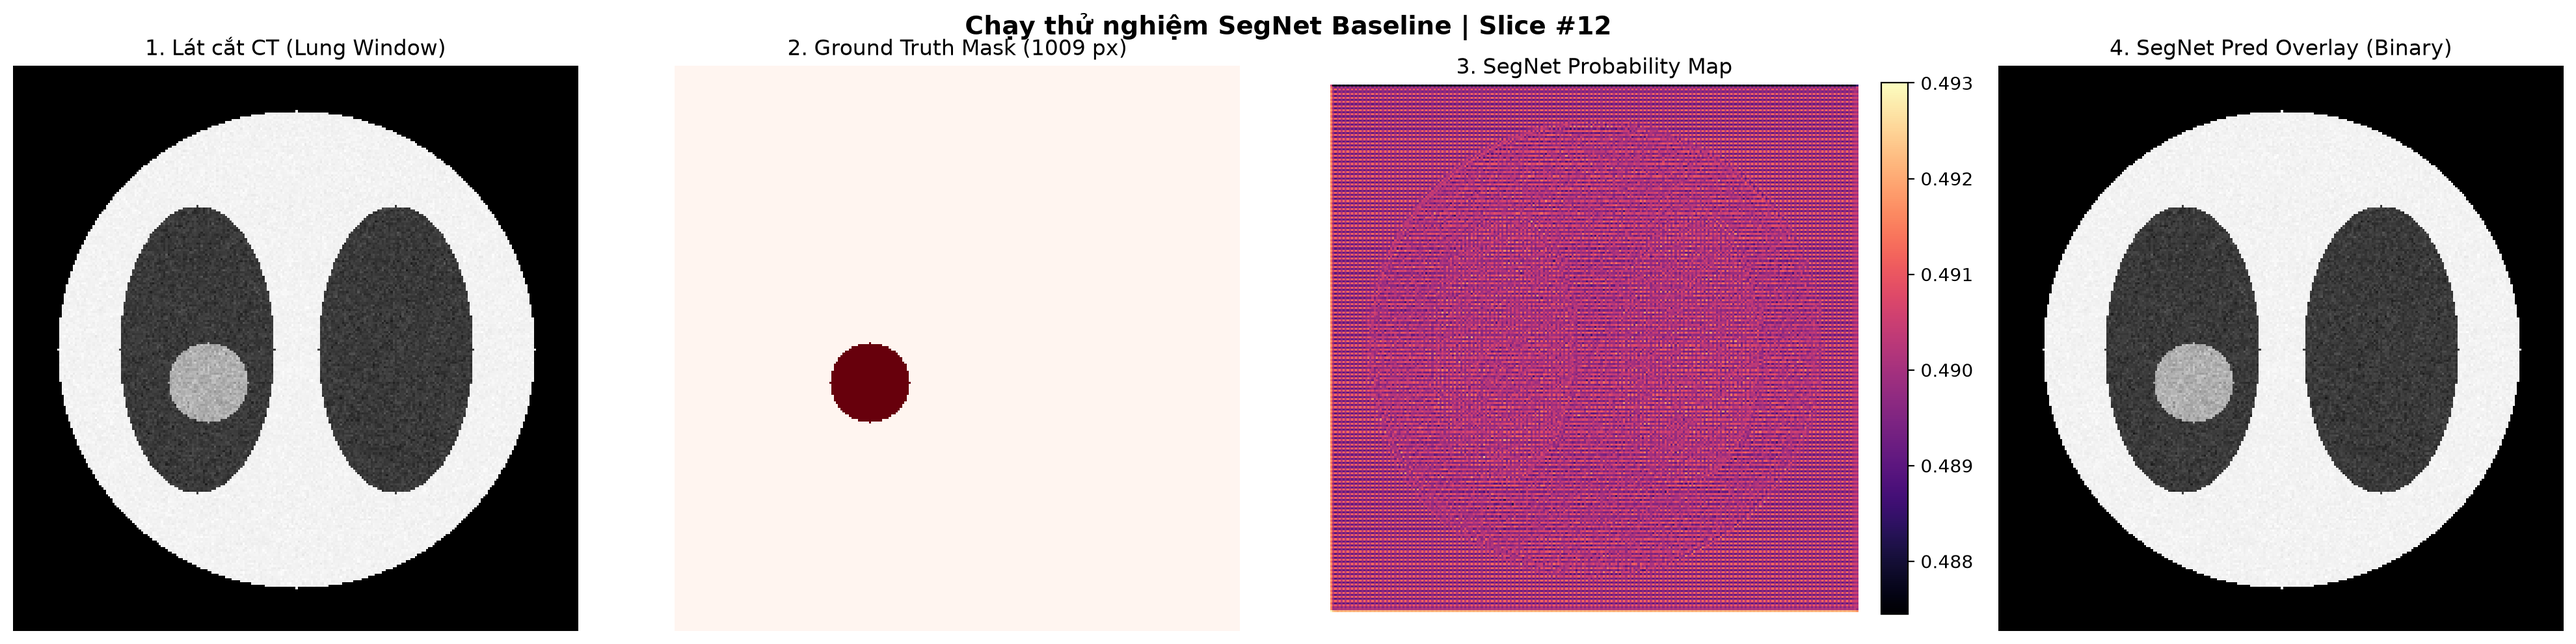
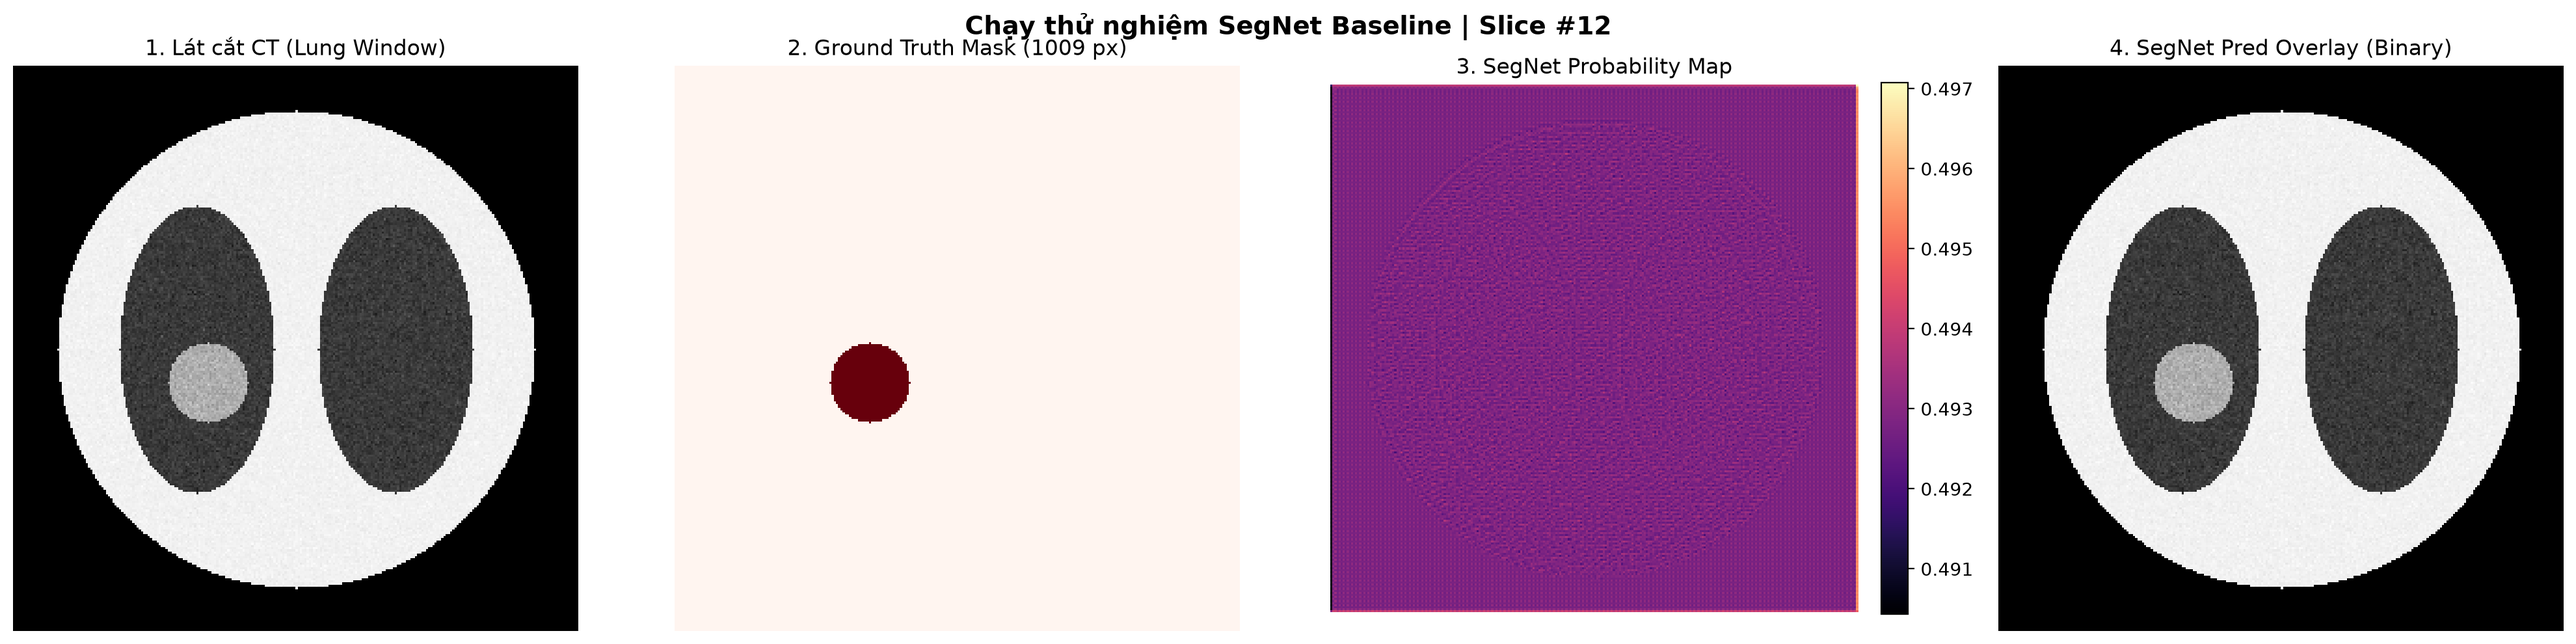
save: dev updates before pulling

Changed region(s): [[0.497, 0.1212, 0.7765, 0.9697], [0.8386, 0.5455, 0.8697, 0.6364], [0.0621, 0.5455, 0.0932, 0.6364]]

diff --git a/README.md b/README.md
@@ -1,0 +1,90 @@
+# Lung Lesion Segmentation
+
+Demo phân đoạn tổn thương phổi trên ảnh CT lát cắt bằng **SegNet/PyTorch**.
+Project hiện dùng dữ liệu CT và mask giả lập để kiểm tra preprocessing,
+inference và visualization; chưa huấn luyện trên dữ liệu lâm sàng.
+
+## Yêu cầu
+
+- Windows 10/11 và Python 3.10+.
+- PyTorch, NumPy, Matplotlib.
+- `pytest` nếu muốn chạy test bằng pytest.
+- `opencv-python` là tùy chọn để vẽ contour.
+
+Không cần dataset, checkpoint hoặc GPU cho demo. Mô hình dùng trọng số ngẫu
+nhiên nên kết quả chỉ phục vụ kiểm thử pipeline, không dùng chẩn đoán.
+
+## Cài đặt
+
+Mở PowerShell tại thư mục project:
+
+```powershell
+cd D:\Code\lung-lesion-segmentation
+.\venv\Scripts\Activate.ps1
+```
+
+Nếu chưa có môi trường `venv`:
+
+```powershell
+py -3.10 -m venv .venv
+.\.venv\Scripts\Activate.ps1
+python -m pip install --upgrade pip
+pip install torch numpy matplotlib pytest
+```
+
+Tùy chọn:
+
+```powershell
+pip install opencv-python
+```
+
+## Cách chạy
+
+### Demo SegNet inference
+
+Nếu PowerShell báo lỗi mã hóa tiếng Việt, chạy trước:
+
+```powershell
+$env:PYTHONUTF8 = "1"
+```
+
+Chạy demo:
+
+```powershell
+python .\demo_segnet_inference.py
+```
+
+Demo tạo volume CT giả lập `256 x 256 x 40`, chọn lát cắt có tổn thương,
+chuẩn hóa theo lung window `[-1000, 400] HU`, chạy SegNet và lưu kết quả tại:
+
+```text
+evidence/demo_segnet_prediction.png
+```
+
+### Trực quan hóa CT và mask
+
+```powershell
+python .\src\utils\visualization.py
+python .\src\utils\visualization.py --grid
+```
+
+### Chạy test
+
+```powershell
+python -m pytest .\tests
+```
+
+Hoặc chạy trực tiếp, không cần `pytest`:
+
+```powershell
+python .\tests\test_segnet.py
+```
+
+Test kiểm tra model nhận input `(2, 1, 256, 256)` và trả output cùng kích
+thước không gian.
+
+## Lưu ý
+
+Muốn sử dụng thực tế cần thay dữ liệu giả lập bằng dataset CT đã chuẩn hóa,
+thêm checkpoint đã huấn luyện và đánh giá bằng Dice/IoU. Kết quả hiện tại
+không có giá trị chẩn đoán y khoa.
